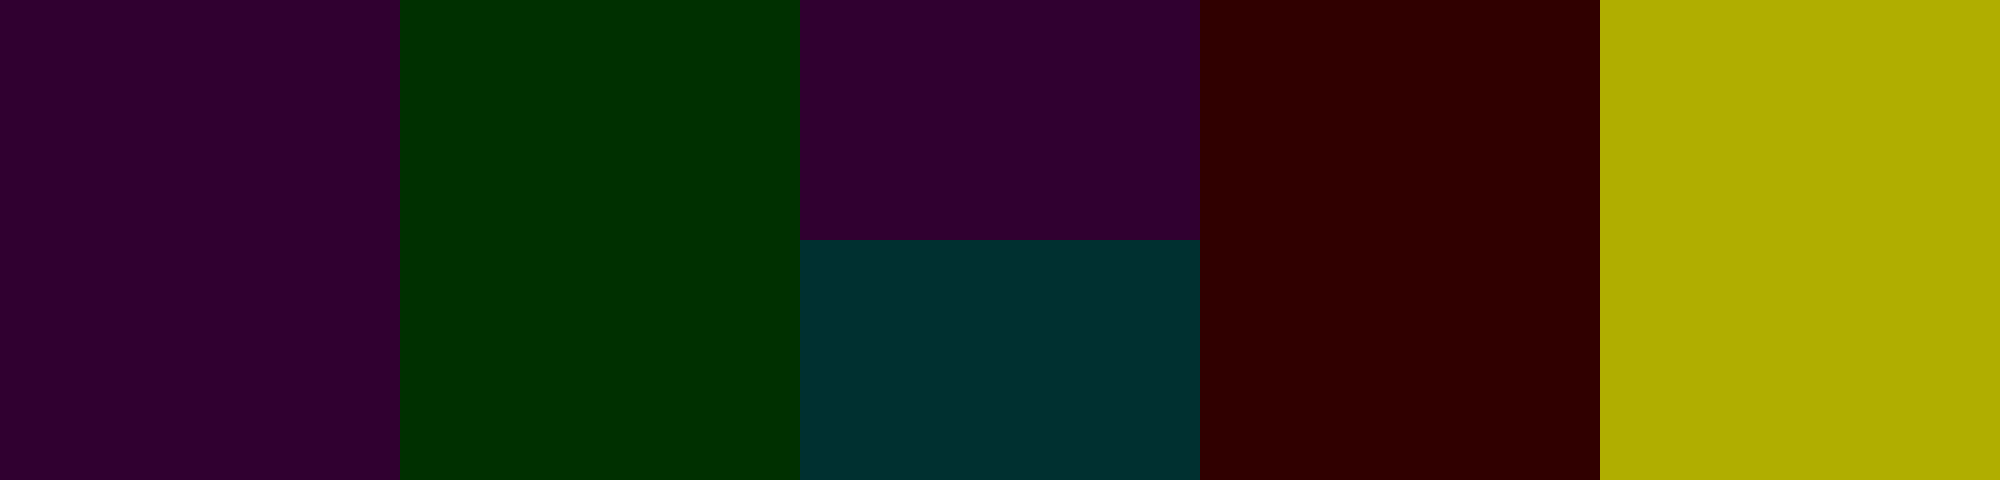
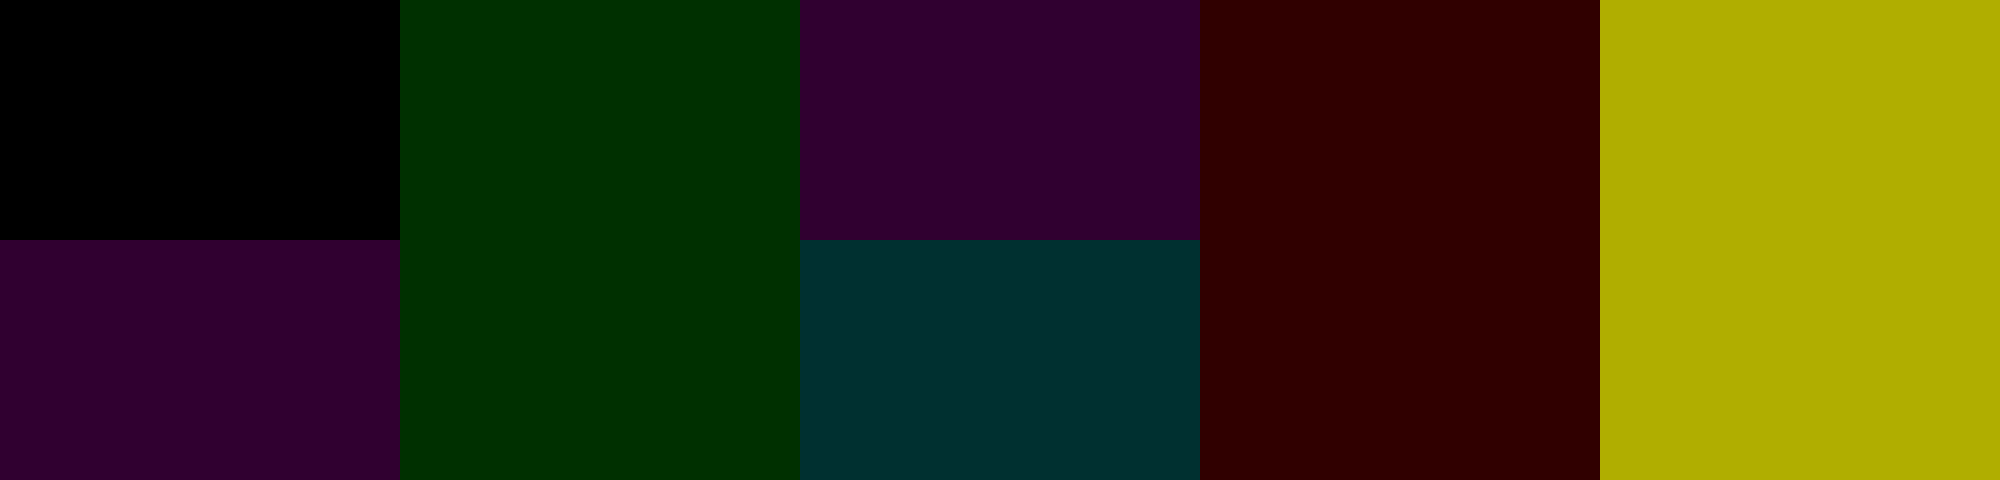
Giga background works

Changed region(s): [[0.0, 0.0, 0.217, 0.5]]

diff --git a/Assets/Scripts/Enemies/Bosses/GigaSnail.cs b/Assets/Scripts/Enemies/Bosses/GigaSnail.cs
@@ -118,9 +118,11 @@ public class GigaSnail : Boss
     /*\
      *   ANIMATION DATA
      * 0 - fade in intro background
-     * 1 - crossfade attack backgrounds
-     * 2 - display stars over the background
+     * 1 - fade out outro background
+     * 2 - crossfade attack backgrounds
+     * 3 - display stars over the background
     \*/
+    private string lastBGState = "none";
 
     private BoxCollider2D box;
     private Vector2 boxSize;
@@ -159,11 +161,14 @@ public class GigaSnail : Boss
         {
             BGObj newBG = new() { obj = new GameObject("Giga Snail Background Layer " + i.ToString()) };
             newBG.obj.transform.parent = PlayState.cam.transform;
+            newBG.obj.transform.localPosition = Vector2.zero;
 
             newBG.sprite = newBG.obj.AddComponent<SpriteRenderer>();
-            newBG.sprite.sortingOrder = -99;
+            newBG.sprite.sortingOrder = -100 + i;
 
             newBG.anim = newBG.obj.AddComponent<AnimationModule>();
+            newBG.anim.Add("GigaBackground_fadeIn");
+            newBG.anim.Add("GigaBackground_fadeOut");
             for (int j = 0; j < System.Enum.GetNames(typeof(BossMode)).Length; j++)
             {
                 string parsedStateName = ((BossMode)j).ToString().ToLower();
@@ -178,10 +183,77 @@ public class GigaSnail : Boss
             else
                 bgB = newBG;
         }
+        UpdateBackground("fadeIn");
 
         zzzObj = Resources.Load<GameObject>("Objects/Enemies/Bosses/Giga Zzz");
 
         CollectTargetPoints();
+    }
+
+    private void UpdateBackground(string newState)
+    {
+        switch (newState)
+        {
+            case "fadeIn":
+                SetBackgroundState(false, false);
+                SetBackgroundState(true, false);
+                bgA.anim.Play("GigaBackground_fadeIn");
+                if (bgAnimData[0] == 1)
+                    StartCoroutine(FadeBackground(false, 4f, true));
+                else
+                    SetBackgroundState(false, true);
+                break;
+            case "intro":
+                bgB.anim.Play("GigaBackground_intro_hold1");
+                if (bgAnimData[2] == 1)
+                    StartCoroutine(FadeBackground(true, 2f, true));
+                else
+                    SetBackgroundState(true, true);
+                break;
+            default:
+                SetBackgroundState(true, true);
+                if (bgAnimData[2] == 1)
+                    StartCoroutine(FadeBackground(true, 0.3333f, false));
+                bgB.anim.Play("GigaBackground_" + lastBGState + "_fadeOut" + (attackPhase + 1).ToString());
+                bgA.anim.Play("GigaBackground_" + newState + "_hold" + (attackPhase + 1).ToString());
+                break;
+            case "fadeOut":
+                SetBackgroundState(true, false);
+                if (bgAnimData[1] == 1)
+                    StartCoroutine(FadeBackground(false, 4f, false));
+                bgA.anim.Play("GigaBackground_fadeOut");
+                break;
+        }
+        lastBGState = newState;
+    }
+
+    private void SetBackgroundState(bool layer, bool mode)
+    {
+        byte alpha = mode ? (byte)255 : (byte)0;
+        if (layer)
+            bgB.sprite.color = new Color32(255, 255, 255, alpha);
+        else
+            bgA.sprite.color = new Color32(255, 255, 255, alpha);
+    }
+
+    private IEnumerator FadeBackground(bool layer, float fadeTime, bool fadeMode)
+    {
+        Color32 startingColor = (layer ? bgB : bgA).sprite.color;
+        Color32 targetColor = fadeMode ? new Color32(255, 255, 255, 255) : new Color32(255, 255, 255, 0);
+        float fadeElapsed = 0;
+        while (fadeElapsed < fadeTime)
+        {
+            fadeElapsed += Time.deltaTime;
+            if (layer)
+                bgB.sprite.color = Color32.Lerp(startingColor, targetColor, fadeElapsed / fadeTime);
+            else
+                bgA.sprite.color = Color32.Lerp(startingColor, targetColor, fadeElapsed / fadeTime);
+            yield return new WaitForEndOfFrame();
+        }
+        if (layer)
+            bgB.sprite.color = targetColor;
+        else
+            bgA.sprite.color = targetColor;
     }
 
     private float GetDecision()
@@ -263,6 +335,8 @@ public class GigaSnail : Boss
             sprite.color = new Color32(255, 255, 255, 255);
             StartCoroutine(RunIntro(true, true, true));
         }
+        if (introTimer >= 1f && lastBGState == "fadeIn")
+            UpdateBackground("intro");
         if (introDone)
         {
             PlayState.ToggleGigaTiles(false);
@@ -282,8 +356,6 @@ public class GigaSnail : Boss
                 return;
             }
             modeInitialized = true;
-            //this.bg.setTargetRgb(176, 174, 0);
-            //this.bg.bgColorSpeed = 3;
             modeTimeout = 6.2f;
             //this.playAnim("sleep");
             zzzNum = 0;
@@ -295,6 +367,7 @@ public class GigaSnail : Boss
             }
             fallDir = PlayState.EDirsCardinal.Down;
             PlayState.PlaySound("Shell");
+            UpdateBackground("sleep");
         }
         if (stomped)
         {
@@ -320,10 +393,9 @@ public class GigaSnail : Boss
         if (!modeInitialized)
         {
             modeInitialized = true;
-            //this.bg.setTargetRgb(0, 48, 0);
-            //this.bg.bgColorSpeed = 3;
             modeTimeout = 6f;
             PickStompTarget();
+            UpdateBackground("stomp");
         }
         if (lastAnimState == "shell")
         {
@@ -411,19 +483,11 @@ public class GigaSnail : Boss
         if (modeInitialized)
         {
             modeInitialized = true;
-            //if (attackPhase < 1)
-            //{
-            //    this.bg.setTargetRgb(48, 0, 48);
-            //}
-            //else
-            //{
-            //    this.bg.setTargetRgb(0, 48, 48);
-            //}
-            //this.bg.bgColorSpeed = 3;
             modeTimeout = 5.2f;
             //this.playAnim("shell");
             moveTarget = origin;
             aimed = false;
+            UpdateBackground("strafe");
         }
         transform.position = new Vector2(PlayState.Integrate(transform.position.x, moveTarget.x, 1.7f, Time.fixedDeltaTime * bossSpeed),
             PlayState.Integrate(transform.position.y, moveTarget.y, 1.7f, Time.fixedDeltaTime * bossSpeed));
@@ -455,11 +519,10 @@ public class GigaSnail : Boss
         if (!modeInitialized)
         {
             modeInitialized = true;
-            //this.bg.setTargetRgb(48, 0, 0);
-            //this.bg.bgColorSpeed = 3;
             modeTimeout = 6f;
             //this.playAnim("shell");
             PickSmashDir();
+            UpdateBackground("smash");
         }
         if (stomped)
         {
